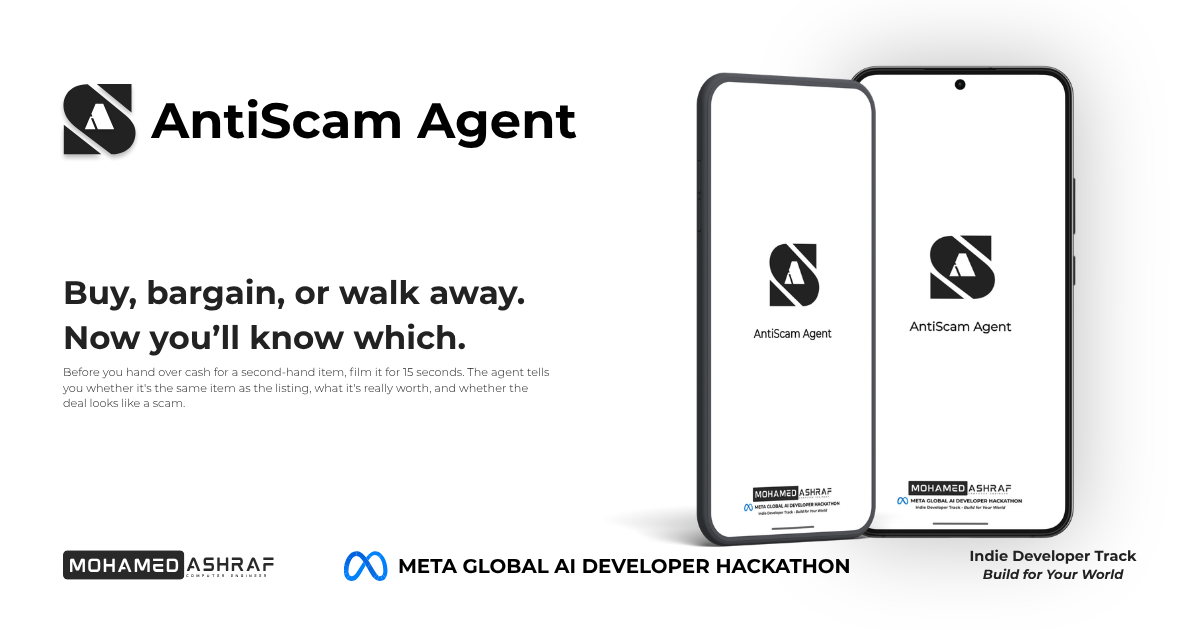
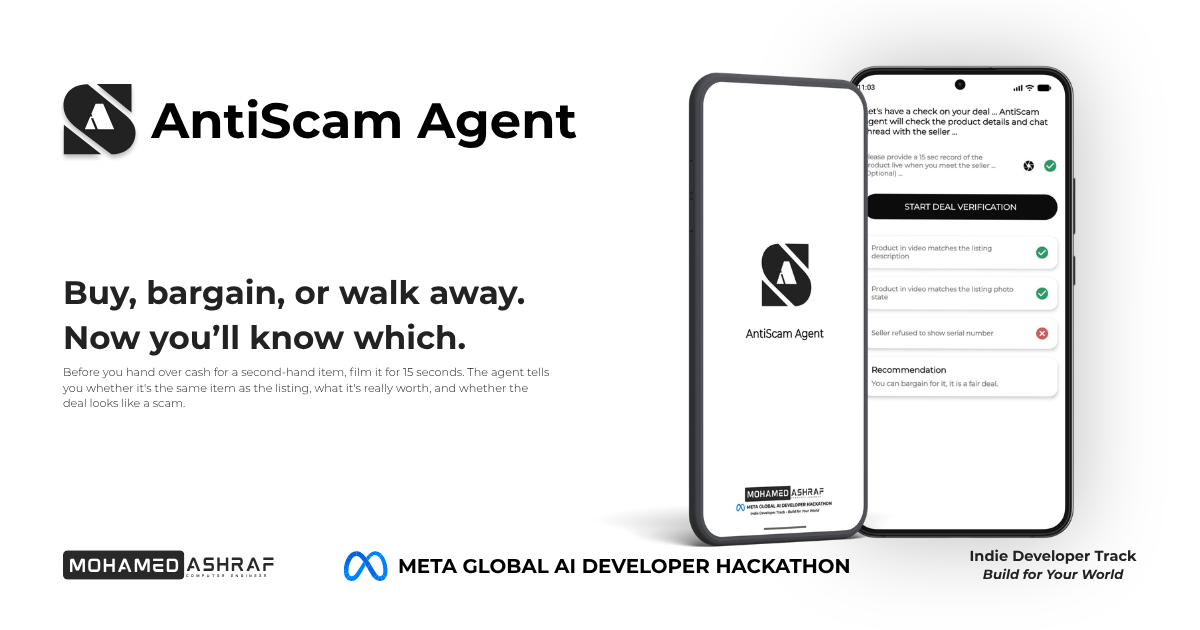
Commit #12: Muse API Integration Implementation.

diff --git a/presentation/src/main/java/tech/mohamedashraf/presentation/agent/Agent.kt b/presentation/src/main/java/tech/mohamedashraf/presentation/agent/Agent.kt
@@ -95,7 +95,7 @@ private fun AgentView(dealVerification: DealVerification, onCheck: (File?) -> Un
                 Spacer(modifier = Modifier.width(16.dp))
                 CameraView { previewVideo.value = it }
                 Spacer(modifier = Modifier.width(4.dp))
-                if(previewVideo.value != null) Icon(modifier = Modifier.size(32.dp), imageVector = Icons.Rounded.CheckCircle, tint = success, contentDescription = "")
+                if(previewVideo.value != null) Icon(modifier = Modifier.size(28.dp), imageVector = Icons.Rounded.CheckCircle, tint = success, contentDescription = "")
             }
         }
         item { Spacer(modifier = Modifier.height(32.dp)) }
@@ -121,7 +121,7 @@ private fun VerificationNoteItem(note: DealVerificationNote) {
         ) {
             TextView(modifier = Modifier.weight(1f), text = note.note, size = 13, color = outlineLight)
             Spacer(modifier = Modifier.width(16.dp))
-            Icon(modifier = Modifier.size(32.dp), imageVector = if (note.accepted) Icons.Rounded.CheckCircle else Icons.Rounded.Cancel, tint = if (note.accepted) success else error, contentDescription = "")
+            Icon(modifier = Modifier.size(28.dp), imageVector = if (note.accepted) Icons.Rounded.CheckCircle else Icons.Rounded.Cancel, tint = if (note.accepted) success else error, contentDescription = "")
         }
     }
 }
@@ -197,7 +197,7 @@ private fun HomeViewPreview() {
                 DealVerificationNote("Product in video matches the listing description", true),
                 DealVerificationNote("Seller refused to show serial number", false),
             ),
-            recommendation = "You Bargain for it it, it is a fair deal."
+            recommendation = "You can bargain for it, it is a fair deal."
         ))
     }
 }

diff --git a/domain/src/main/java/tech/mohamedashraf/domain/usecase/StartAgenticDealVerification.kt b/domain/src/main/java/tech/mohamedashraf/domain/usecase/StartAgenticDealVerification.kt
@@ -3,7 +3,6 @@ package tech.mohamedashraf.domain.usecase
 import tech.mohamedashraf.domain.error.ProductNotFoundError
 import tech.mohamedashraf.domain.repository.MarketplaceRepository
 import tech.mohamedashraf.domain.rules.DealVerification
-import tech.mohamedashraf.domain.rules.DealVerificationNote
 import java.io.File
 
 class StartAgenticDealVerification(private val marketplaceRepository: MarketplaceRepository) {
@@ -11,15 +10,7 @@ class StartAgenticDealVerification(private val marketplaceRepository: Marketplac
     suspend operator fun invoke(productId: String, video: File?): DealVerification {
         val product = marketplaceRepository.getProductDetails(productId)
         return if (product != null) {
-            // marketplaceRepository.verifyDeal(product, video)
-            DealVerification(
-                notes = listOf(
-                    DealVerificationNote("Product in video matches the listing description", true),
-                    DealVerificationNote("Product in video matches the listing photo state", true),
-                    DealVerificationNote("Seller refused to show serial number", false),
-                ),
-                recommendation = "You can bargain for it, it is a fair deal."
-            )
+            marketplaceRepository.verifyDeal(product, video)
         } else throw ProductNotFoundError("Invalid Product!")
     }
 }

diff --git a/data/src/main/java/tech/mohamedashraf/data/firebase/Authentication.kt b/data/src/main/java/tech/mohamedashraf/data/firebase/Authentication.kt
@@ -1,11 +1,11 @@
 package tech.mohamedashraf.data.firebase
 
+import com.google.firebase.Firebase
 import com.google.firebase.auth.EmailAuthProvider
 import com.google.firebase.auth.FirebaseAuthException
 import com.google.firebase.auth.FirebaseAuthInvalidCredentialsException
 import com.google.firebase.auth.FirebaseAuthUserCollisionException
-import com.google.firebase.auth.ktx.auth
-import com.google.firebase.ktx.Firebase
+import com.google.firebase.auth.auth
 import kotlinx.coroutines.tasks.await
 import tech.mohamedashraf.domain.error.*
 

diff --git a/data/src/main/java/tech/mohamedashraf/data/firebase/FireStoreDB.kt b/data/src/main/java/tech/mohamedashraf/data/firebase/FireStoreDB.kt
@@ -1,7 +1,7 @@
 package tech.mohamedashraf.data.firebase
 
-import com.google.firebase.firestore.ktx.firestore
-import com.google.firebase.ktx.Firebase
+import com.google.firebase.Firebase
+import com.google.firebase.firestore.firestore
 import kotlinx.coroutines.tasks.await
 import tech.mohamedashraf.domain.rules.Product
 import tech.mohamedashraf.domain.rules.User
